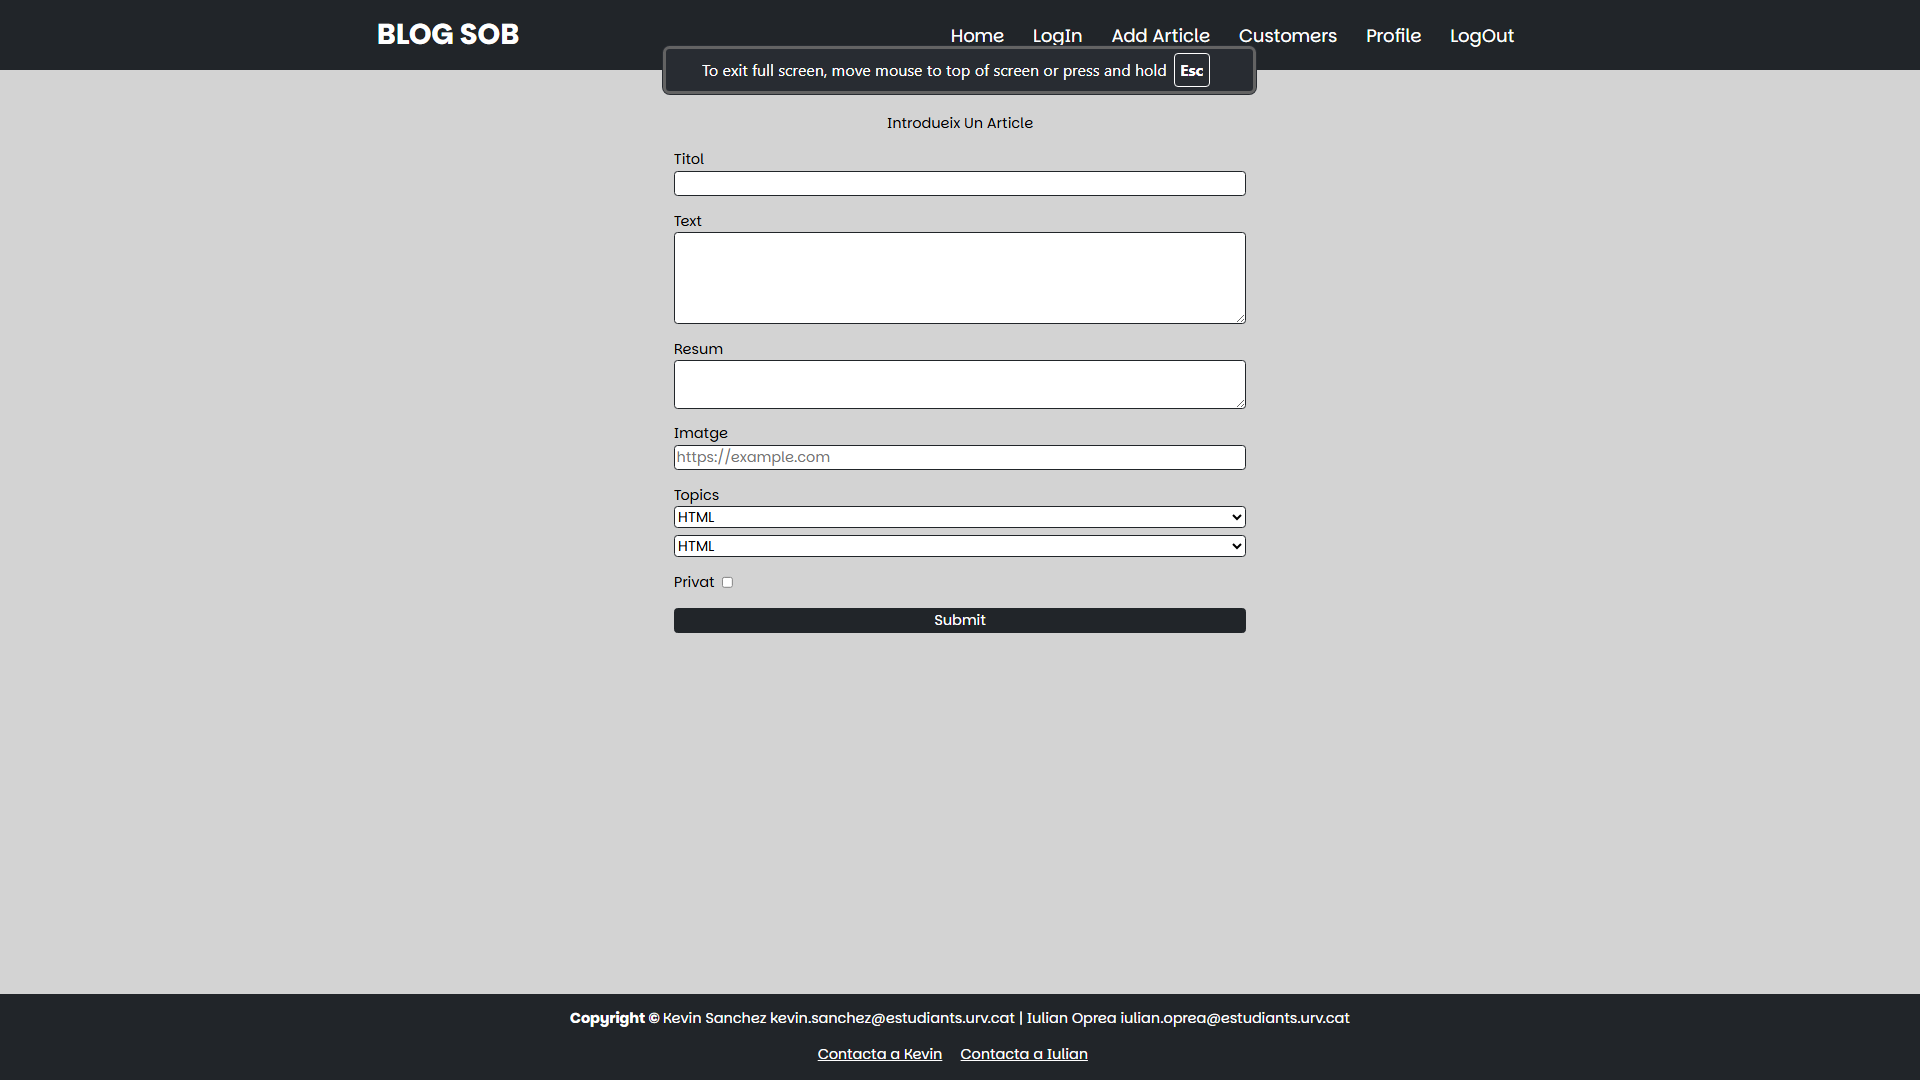
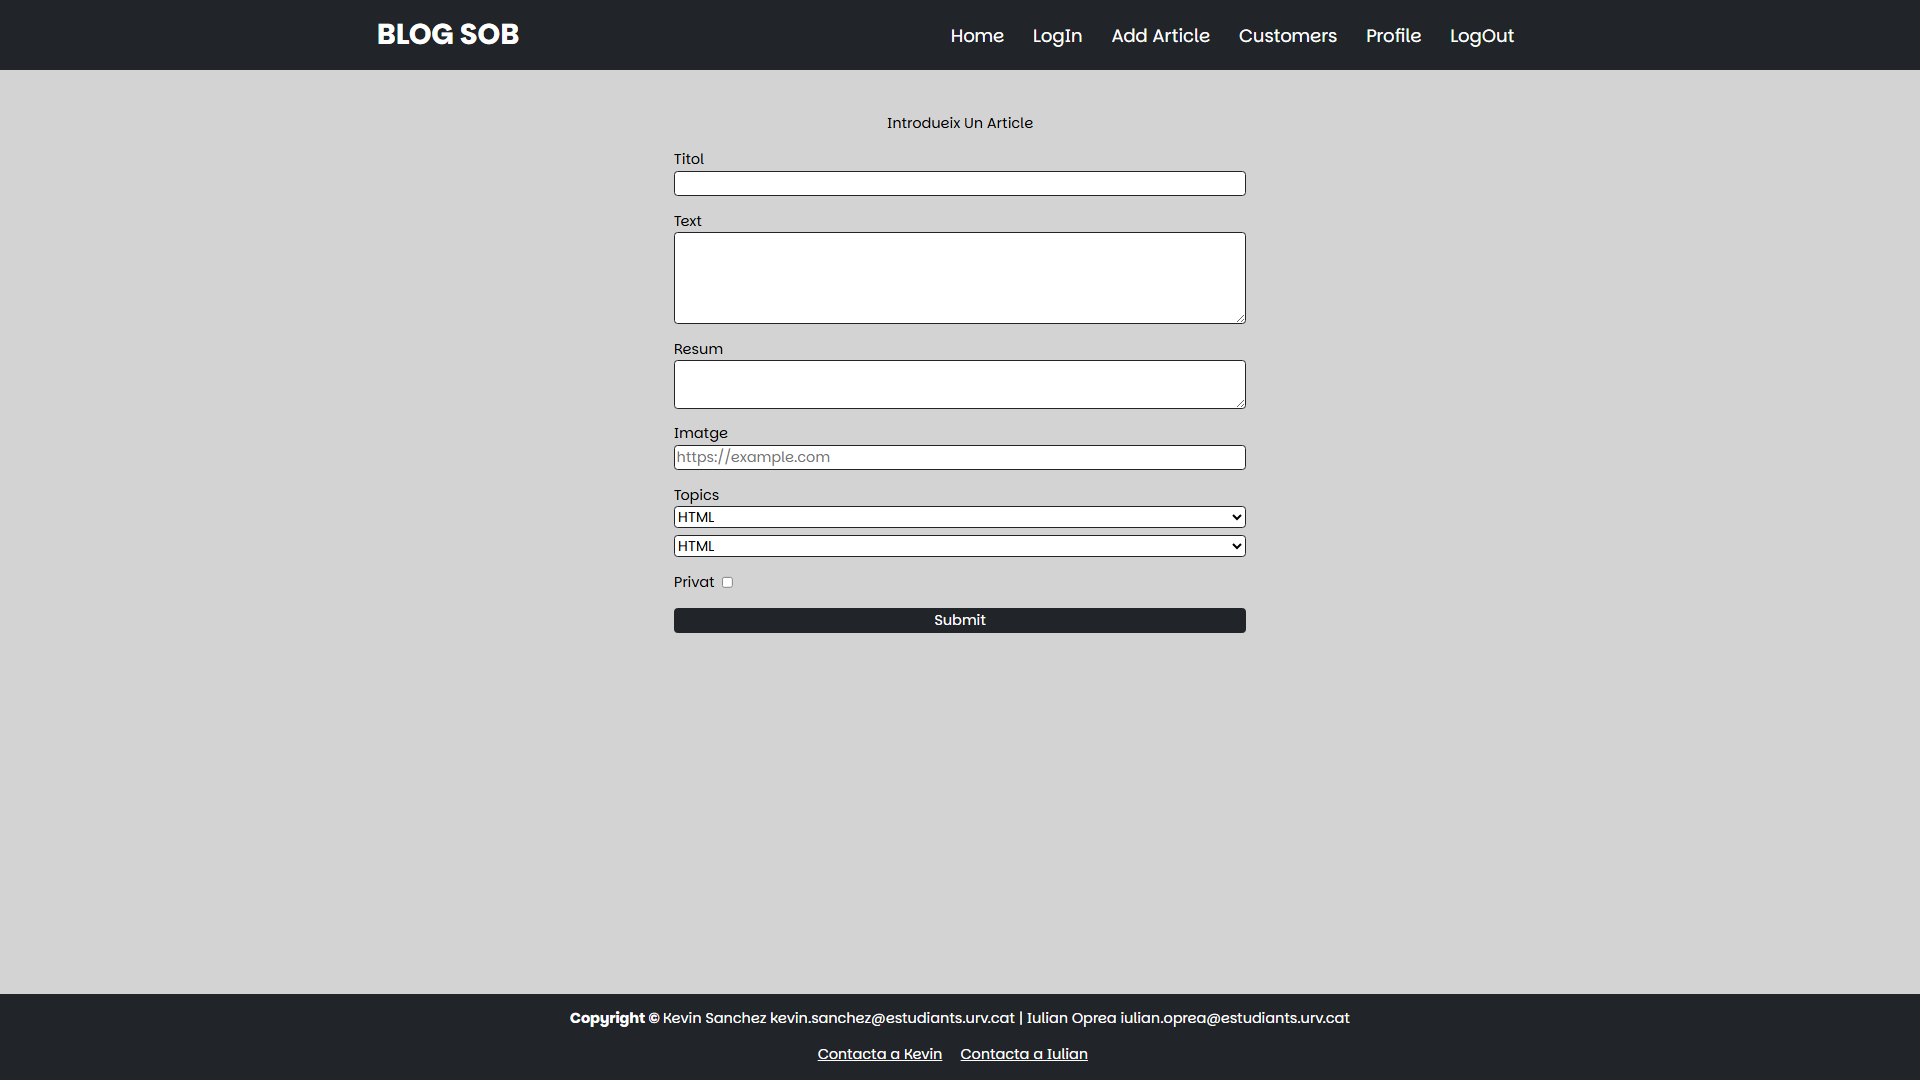
Readme and better photo

Changed region(s): [[0.3438, 0.0306, 0.6562, 0.0917]]

diff --git a/Readme.md b/Readme.md
@@ -1,0 +1,15 @@
+<h1>Web for publishing articles about programming</h1>
+
+
+<ul>
+    <li>
+        <h3>LogIn</h3>
+        <img src="./images/login_pc.png">
+        <img src="./images/login_mobile.png">
+    </li>
+    <li>
+        <h3>AddArticle</h3>
+        <img src="./images/add_article_pc.png">
+        <img src="./images/add_article_mobile.png">
+    </li>
+</ul>
